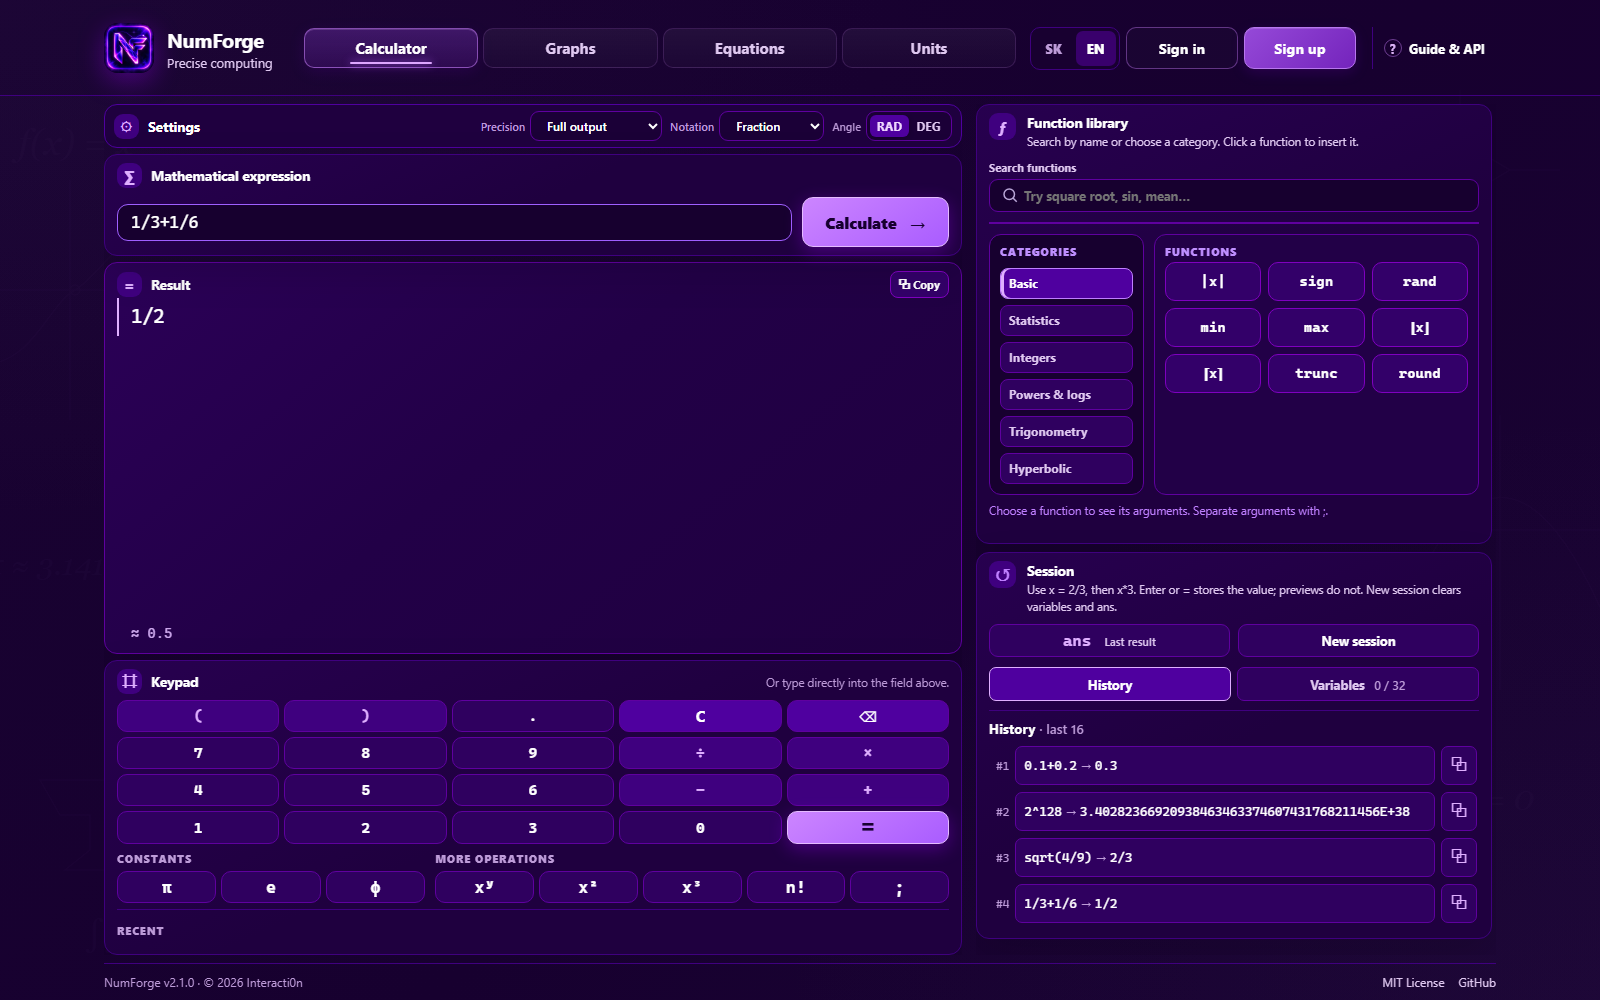
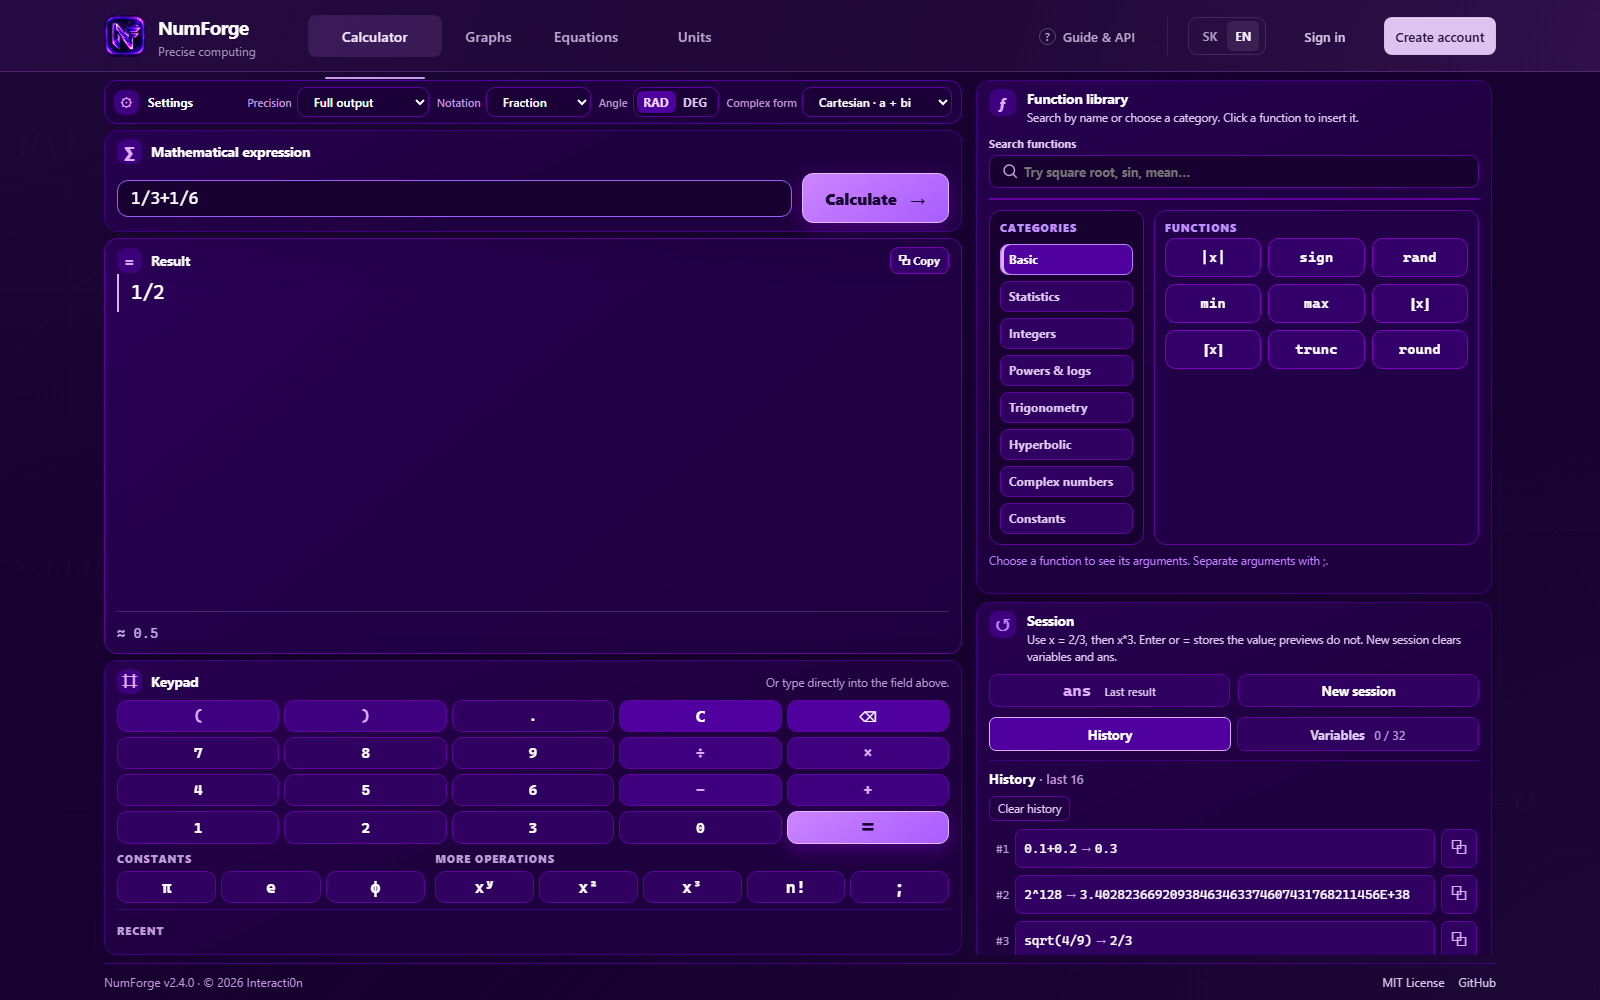
docs: showcase current NumForge APIs and applications

Changed region(s): [[0.0625, 0.0, 0.9375, 0.961], [0.9688, 0.0, 1.0, 0.093], [0.8125, 0.527, 0.8438, 0.558]]

diff --git a/tests/browser/capture_showcase.js b/tests/browser/capture_showcase.js
@@ -1,4 +1,4 @@
-// Capture the real local calculator for project documentation. No UI mocks.
+// Capture the real local application for project documentation. No UI mocks.
 const { chromium, expect } = require('@playwright/test');
 const { spawn } = require('node:child_process');
 const net = require('node:net');
@@ -72,11 +72,38 @@ async function confirm(page, expression, expected) {
             await expect(page.locator('#history-list li')).toHaveCount(4);
             await expect(page.locator('#result-approx')).toHaveText('≈ 0.5');
             await page.locator('#expression').blur();
-            await page.evaluate(() => document.fonts.ready);
-            await page.screenshot({ path: path.join(directory, name + '.png'), fullPage: true });
+            await page.evaluate(async () => {
+                await document.fonts.ready;
+                window.scrollTo(0, 0);
+                await new Promise(resolve => requestAnimationFrame(() => requestAnimationFrame(resolve)));
+            });
+            await expect(page.locator('#expression')).toBeInViewport();
+            await page.screenshot({ path: path.join(directory, name + '.png'), fullPage: !name.endsWith('mobile') });
             await context.close();
         }
-        console.log('Captured verified desktop and mobile calculator screenshots.');
+        const context = await browser.newContext({ viewport: { width: 1440, height: 1000 },
+            deviceScaleFactor: 1, reducedMotion: 'reduce' });
+        const page = await context.newPage();
+        await page.goto(url + '/graph?lang=en');
+        const expressions = ['sin(x)', 'cos(x)', 'x/5'];
+        for (let i = 0; i < expressions.length; ++i) {
+            if (i) await page.locator('#graph-add').click();
+            await page.locator('.graph-curve').nth(i).locator('input:not([type=color])').fill(expressions[i]);
+        }
+        await page.locator('#graph-submit').click();
+        await expect(page.locator('path.graph-line')).toHaveCount(3);
+        await expect(page.locator('.graph-workspace')).not.toHaveAttribute('aria-busy', 'true');
+        await page.evaluate(() => document.fonts.ready);
+        await page.screenshot({ path: path.join(directory, 'graphs-desktop.png'), fullPage: true });
+        await page.goto(url + '/solve?lang=en');
+        await page.locator('#equation-submit').click();
+        await expect(page.locator('.equation-root')).toHaveCount(2);
+        await expect(page.locator('#equation-roots')).toContainText('-sqrt(2)');
+        await expect(page.locator('#equation-roots')).toContainText('≈ 1.414213562373095');
+        await page.evaluate(() => document.fonts.ready);
+        await page.screenshot({ path: path.join(directory, 'equations-desktop.png'), fullPage: true });
+        await context.close();
+        console.log('Captured verified calculator, graph and equation screenshots.');
     } finally {
         if (browser) await browser.close();
         if (server && server.pid && server.exitCode === null) {

diff --git a/scripts/check_doc_examples.py b/scripts/check_doc_examples.py
@@ -8,7 +8,7 @@ import subprocess
 import sys
 
 ROOT = Path(__file__).resolve().parents[1]
-PYTHON_PAGES = ('docs/guides/PYTHON.md', 'docs/reference/MATRIX_API.md',
+PYTHON_PAGES = ('README.md', 'docs/guides/PYTHON.md', 'docs/reference/MATRIX_API.md',
                 'docs/reference/LINEAR_SYSTEM_API.md', 'docs/reference/STATISTICS_API.md',
                 'bindings/python/README.md')
 C_PAGES = (('docs/guides/LIBRARY_GUIDE.md', 'NumForge::numforge', '1[.]4142135624'),

diff --git a/README.md b/README.md
@@ -8,22 +8,27 @@
 [![Latest release](https://img.shields.io/github/v/release/Interacti0n/NumForge)](https://github.com/Interacti0n/NumForge/releases/latest)
 [![License: MIT](https://img.shields.io/badge/license-MIT-blue.svg)](LICENSE)
 
-NumForge is a modular mathematics library with optional CLI and Slovak/English
-browser applications. Mathematical operations run in C and can be used without
-a web interface, application session or database.
+NumForge is a modular mathematics platform: a standalone C library, an expression
+engine, an experimental Python adapter, and CLI/browser applications.
+The interfaces reuse C implementations; mathematical operations work without a
+browser, application session or database.
 
-**Current source:** opaque integer, decimal, rational and complex types; a public
-expression engine; exact polynomial and matrix operations; rational statistics
-with covariance/regression; units; and bounded numerical grids, root searches and
-finite-interval integration. An experimental
-Python adapter calls the same C implementation. See the [supported API](docs/API.md).
+[Get started](#get-started) · [Browser](#in-the-browser) · [C/C++](#cc-sdk) ·
+[Python](#python) · [Documentation](docs/README.md) · [Roadmap](docs/project/ROADMAP.md)
 
-**Published 2.4.0 downloads** predate the public engine, newer modules and Python
-adapter. Use the matching release documentation for those archives. Python is
-currently source-built and has not been published to PyPI.
+## What can it do?
 
-[Get started](#get-started) · [Browser](#in-the-browser) · [C/C++ SDK](#cc-sdk) ·
-[Python](docs/guides/PYTHON.md) · [Documentation](docs/README.md)
+| Capability in current source | Explore |
+| --- | --- |
+| Arbitrary-precision integers, decimals, fractions and complex numbers | [Numeric APIs](docs/reference/C_API.md) |
+| Typed expressions, explicit precision and reusable parameterized expressions | [Expression engine](docs/reference/ENGINE_API.md) |
+| Exact linear/quadratic equations, rational matrices and general linear systems | [Supported APIs](docs/API.md) |
+| Exact statistics, covariance and linear regression | [Statistics](docs/reference/STATISTICS_API.md) |
+| Exact grids, bounded root searches and approximate finite-interval integration | [Numerical methods](docs/reference/NUMERICAL_API.md) |
+| Unit conversions and dimensional quantities | [Units](docs/reference/UNITS.md) |
+
+C/Python expose mathematical APIs beyond the browser tools. See
+[interface coverage](docs/reference/WEB_API_PARITY.md) for availability.
 
 ## NumForge in 15 seconds
 
@@ -36,117 +41,147 @@ currently source-built and has not been published to PyPI.
 | `convert(90; "km/h"; "m/s")` | `25` |
 | `qty(5; "m") * qty(5; "m")` | `25 m²` |
 
-Select Full precision with Plain or Fraction notation for exact results.
-For an irrational result, select Plain and 40 output places:
+Use Full precision and Plain or Fraction notation as appropriate for these
+exact results. For `sqrt(2)`, choose Plain and 40 output places:
 
 ```text
-sqrt(2) ≈ 1.4142135623730950488016887242096980785697
+1.4142135623730950488016887242096980785697
 ```
 
-Exact arithmetic stays exact within resource limits. Approximate functions use
-explicit working precision; this is not a universal error guarantee for composed
-expressions. Graph sampling and numerical root discovery are bounded and can
-miss features or roots.
+Exact arithmetic stays exact within resource limits. Approximate calculations
+use explicit working precision; output places do not certify whole-expression
+accuracy. Numerical root discovery and graph sampling can miss roots or features.
 
 ## In the browser
 
-The local application provides a calculator, converter, four-function graphs,
-equation solving and session variables/history. Arithmetic runs in C; JavaScript
-handles presentation and requests. No Node.js, Python or database is needed at runtime.
+The Slovak/English application combines a scientific calculator, unit converter,
+up to four function graphs, exact/numerical equation solving, variables and
+confirmed history. Arithmetic runs in C; JavaScript handles presentation and
+requests. No Node.js, Python or database is needed at runtime.
 
-![Calculator with an exact fraction and confirmed history](docs/images/calculator-desktop.png)
+![Current calculator with exact fractions and confirmed history](docs/images/calculator-desktop.png)
 
 <details>
-<summary>Mobile view</summary>
+<summary>Graphs, equations and mobile view</summary>
 
-<img src="docs/images/calculator-mobile.png" alt="Mobile calculator" width="320">
+<p><img src="docs/images/graphs-desktop.png" alt="Three functions plotted in the graph workspace"></p>
+
+<p><img src="docs/images/equations-desktop.png" alt="Exact quadratic roots with decimal previews"></p>
+
+<img src="docs/images/calculator-mobile.png" alt="Calculator on a phone" width="320">
 
 </details>
 
-These development screenshots were captured during 2.1 preparation; they show
-the calculator workflow, not every control in the current source.
+Real application captures, refreshed on 21 October 2026 from development source.
+Start with the [calculator guide](docs/guides/CALCULATOR_WEB.md),
+[graphs](docs/guides/GRAPHS.md) or [equations](docs/guides/EQUATIONS.md).
 
 ## Get started
 
-Download a portable application from the
-[release page](https://github.com/Interacti0n/NumForge/releases/latest), verify its
-matching SHA-256 and extract the whole archive. Platform/runtime details are in
-[release packaging](docs/project/RELEASE_PACKAGING.md).
-
-To use the shared build profiles, install CMake 3.21+ and a C17 compiler:
+For the newest features, build current source with **CMake 3.21+** and a **C17 compiler**:
 
 ```sh
 git clone https://github.com/Interacti0n/NumForge.git
 cd NumForge
-cmake -S . -B build -DCMAKE_BUILD_TYPE=Release -DBUILD_TESTING=OFF
-cmake --build build --config Release
+cmake --preset apps
+cmake --build --preset apps
 ```
 
-Run `numforge_web` and `calculator` from `build/`, or `build/Release/` with
-Visual Studio. The web app listens on loopback port 8765. Use `--port N` for
-another port and `--no-browser` to suppress browser launching. For remote access,
-read the [hosting guide](docs/guides/HOSTING.md); concurrent server readiness is
-a separate [roadmap milestone](docs/project/ROADMAP.md).
+Run `numforge_web` or `calculator` from `build/apps/`, or `build/apps/Release/`
+with Visual Studio. Open `http://127.0.0.1:8765` for the browser app.
+Use `--port N` for another port and `--no-browser` to suppress browser launching.
+Remote access is covered by [Hosting](docs/guides/HOSTING.md). The HTTP server
+currently processes connections serially; concurrent serving is in development.
+
+Prefer a portable download? Get an application or SDK from
+[Releases](https://github.com/Interacti0n/NumForge/releases/latest), verify its
+SHA-256 and extract the whole archive. **Published 2.4.0 packages have an older
+API than current source** and do not include Python. Check
+[SDK compatibility](docs/guides/SDK.md) before choosing a binary.
 
 ## C/C++ SDK
 
-Link the standalone numeric target from an installed library or compatible SDK:
+The numeric library and optional expression engine can be installed independently
+of the applications. Link the target your project needs:
 
 ```cmake
 find_package(NumForge CONFIG REQUIRED)
 target_link_libraries(my_target PRIVATE NumForge::numforge)
+# Use NumForge::engine when you also need expression parsing and evaluation.
 ```
 
-Set `CMAKE_PREFIX_PATH` to the installation/SDK prefix. The
-[SDK quick start](docs/guides/SDK.md) covers prebuilt archives and toolchain
-compatibility; the [library guide](docs/guides/LIBRARY_GUIDE.md) covers source
-installation and a complete C example. Current source optionally exports
-`NumForge::engine` for expressions. Installed public headers define the contracts.
+Follow [C/C++ from source](docs/guides/LIBRARY_GUIDE.md) for installation and a
+complete C example, or the [prebuilt SDK guide](docs/guides/SDK.md) for archives.
+Installed headers define that package's API and ownership rules.
+
+## Python
+
+The experimental adapter is source-built with CPython 3.10+, its development
+headers, CMake and a C17 toolchain. In a virtual environment, from this checkout:
+
+```sh
+python -m pip install .
+```
+
+```python
+from fractions import Fraction
+import numforge as nf
+
+assert nf.evaluate("1/3+1/6").as_fraction() == Fraction(1, 2)
+assert nf.Matrix([[1, 2], [3, 4]]).determinant() == -2
+
+fit = nf.linear_regression([1, 2, 3], [1, 2, 2])
+assert (fit.slope, fit.intercept) == (Fraction(1, 2), Fraction(2, 3))
+
+root = nf.sqrt(2, precision=1000)   # 1000 working digits; approximate
+assert not root.exact
+
+area = nf.integrate(lambda x, places: x*x, 0, 1)
+assert area.kind == "estimated" and area.value == Fraction(1, 3)
+assert not area.exact              # Numerical integration remains approximate.
+```
+
+These operations call the C implementation. See [Python](docs/guides/PYTHON.md)
+for prepared expressions, root searches, budgets and supported input types.
+The adapter is **not published to PyPI**; `pip install numforge` is not the
+installation command for this project.
 
 ## Architecture
 
-| Location | Responsibility |
-| --- | --- |
-| `include/numforge/` | Installed C APIs |
-| `src/core/`, `src/runtime/` | Numeric representations, arithmetic and resource scopes |
-| `src/modules/` | Independently callable mathematical algorithms |
-| `src/engine/` | Parsing, typed expression evaluation and formatting |
-| `src/application/` | Sessions and application workflows |
-| `bindings/`, `apps/` | Language adapters, CLI and web |
-| `tests/`, `benchmarks/`, `docs/` | Verification, measurements and documentation |
-
-Algorithms have one owner; interfaces reuse them. See the
-[architecture rules](docs/design/ARCHITECTURE.md) and
-[ordered roadmap](docs/project/ROADMAP.md) for boundaries and next work.
+The numeric core and modules own mathematical algorithms; the engine adds parsing
+and typed expression evaluation. Application state, HTTP and language adapters
+live in separate layers. See [Architecture](docs/design/ARCHITECTURE.md) for the
+source map and [Roadmap](docs/project/ROADMAP.md) for the ordered next steps.
 
 ## Measured performance
 
-Reproducible measurements, exact references and machine/compiler details live in
-the [benchmark tools guide](benchmarks/README.md) and its linked reports.
-Historical timings and private experiments are not current performance guarantees.
+[Benchmark tools](benchmarks/README.md) and [selected measurements](docs/performance/README.md)
+include environments, verification and limits. Recorded timings describe their
+revision and machine; they are not current performance or server-capacity guarantees.
 
 ## Test
 
 ```sh
-cmake -P cmake/LocalBuild.cmake
+cmake --preset dev
+cmake --build --preset dev
+ctest --preset dev
 ```
 
-This builds Release and runs CTest. The first test configuration fetches Unity;
-Node.js enables additional checks. Browser testing uses Playwright separately.
-See [testing](docs/TESTING.md) for focused checks and package verification.
+The first test configuration fetches Unity. Node.js enables additional checks;
+Playwright tests run separately. See [Testing](docs/TESTING.md) for focused checks,
+Python packages and installed C/C++ consumers.
 
 ## Contributing
 
-Start with [CONTRIBUTING.md](CONTRIBUTING.md) and the
-[mathematical feature checklist](docs/project/FEATURE_CHECKLIST.md).
-For a numerical issue, include input, precision, rounding, expected result and
-its independent reference.
+Start with [Contributing](CONTRIBUTING.md) and the
+[feature checklist](docs/project/FEATURE_CHECKLIST.md). For a numerical issue,
+include input, precision, rounding, expected result and its independent reference.
 
 ## Documentation
 
-Use the [documentation guide](docs/README.md) to choose a workflow, API reference
-or implementation topic. [Changelog](CHANGELOG.md) and [release verification](docs/project/RELEASES.md)
-are separate from current usage instructions.
+[Start here](docs/README.md) for user guides and integration paths.
+[Changelog](CHANGELOG.md) records user-visible changes;
+[release verification](docs/project/RELEASES.md) records published artifact checks.
 
 ## License
 

diff --git a/docs/project/DOCUMENTATION.md b/docs/project/DOCUMENTATION.md
@@ -99,15 +99,17 @@ run; all build output remains unpublished until a separate release action.
 ## Product screenshots
 
 Use real product captures and captions stating their version. Current README
-images show the 2.1.0 preparation build, captured on 8 October 2026 in English
-with Full precision and Fraction notation. Refresh them after relevant UI changes:
+images show development source captured on 21 October 2026 in English: the
+calculator in Full/Fraction mode, three plotted functions and exact quadratic
+roots with decimal previews. Refresh them after relevant UI changes:
 
 ```sh
-node tests/browser/capture_showcase.js build/Release/numforge_web.exe
+node tests/browser/capture_showcase.js build/dev/Release/numforge_web.exe
 ```
 
 Pass the actual executable path; single-configuration builds omit `Release/`.
-The script starts its own loopback server on port 18773, checks the calculator
-results, captures desktop/mobile layouts and closes its browser/server. Inspect
-both images for clipping and legibility. Keep demonstration claims consistent
+The script starts its own loopback server on port 18773, checks calculator
+results, graph completion and equation roots, captures the desktop/mobile
+calculator and desktop graph/equation views, then closes its browser/server.
+Inspect all images for clipping and legibility. Keep demonstration claims consistent
 with the current API and distinguish published archives from development source.
